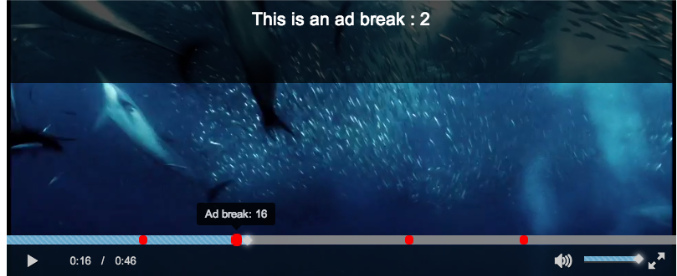
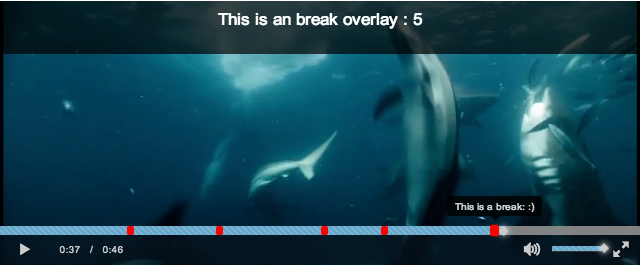
update screenshot

diff --git a/demo/example.html b/demo/example.html
@@ -33,31 +33,18 @@
    //load the marker plugin
    video.markers({
       setting: {
-         //set style, markertip, and breakOverlay
-         markerStyle: {
-            'width':'8px',
-            'background-color': 'orange'
-         },
          markerTip:{
-            display: true,
-            default_text: "Ad break"
+            default_text: "This is a break"
          },
          breakOverlay:{
             display: true,
             display_time: 3,
-            default_text: "This is an ad break ",
-
-            //overlaid box style
-            style:{
-               'height': '30%',
-               'background-color': 'rgba(200,80,15,0.8)',
-               'color': 'white',
-               'font-size': '18px'
-            }
+            default_text: "This is an break overlay "
          }
       },
-      marker_breaks:[9.5, 16, 28, 36],
-      marker_text  :['text1','text2','text3','text4']
+      //set break time
+      marker_breaks:[9.5, 16, 23.6, 28, 36],
+      marker_text:["this","is","so","cool",":)"]
    });
 
 </script>
